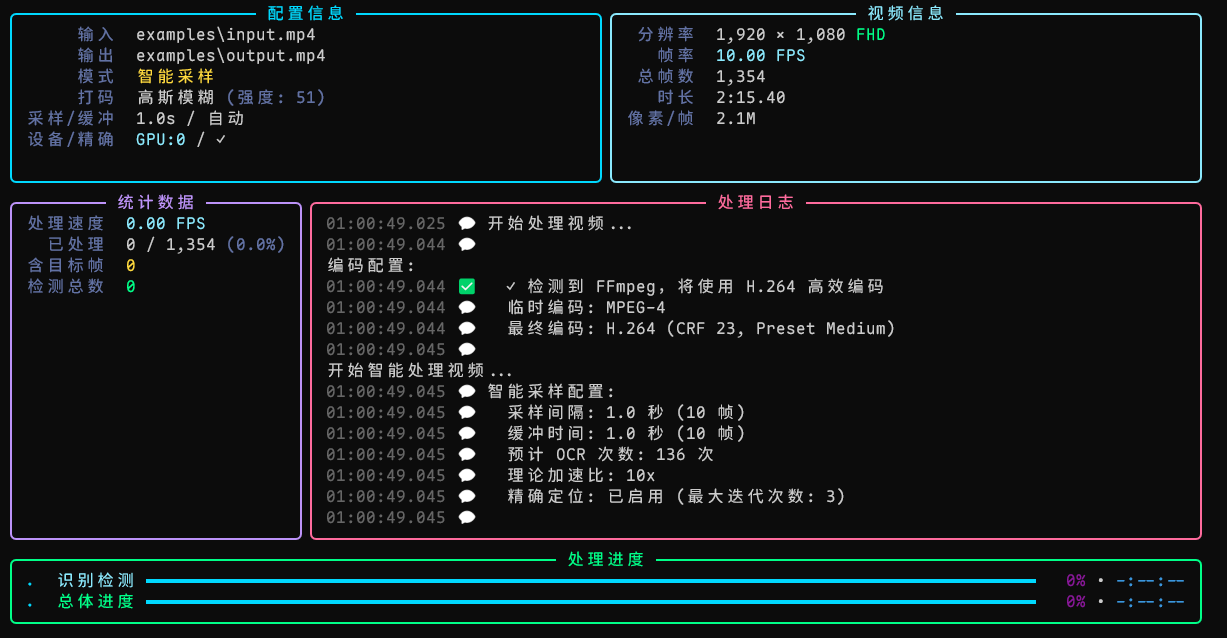
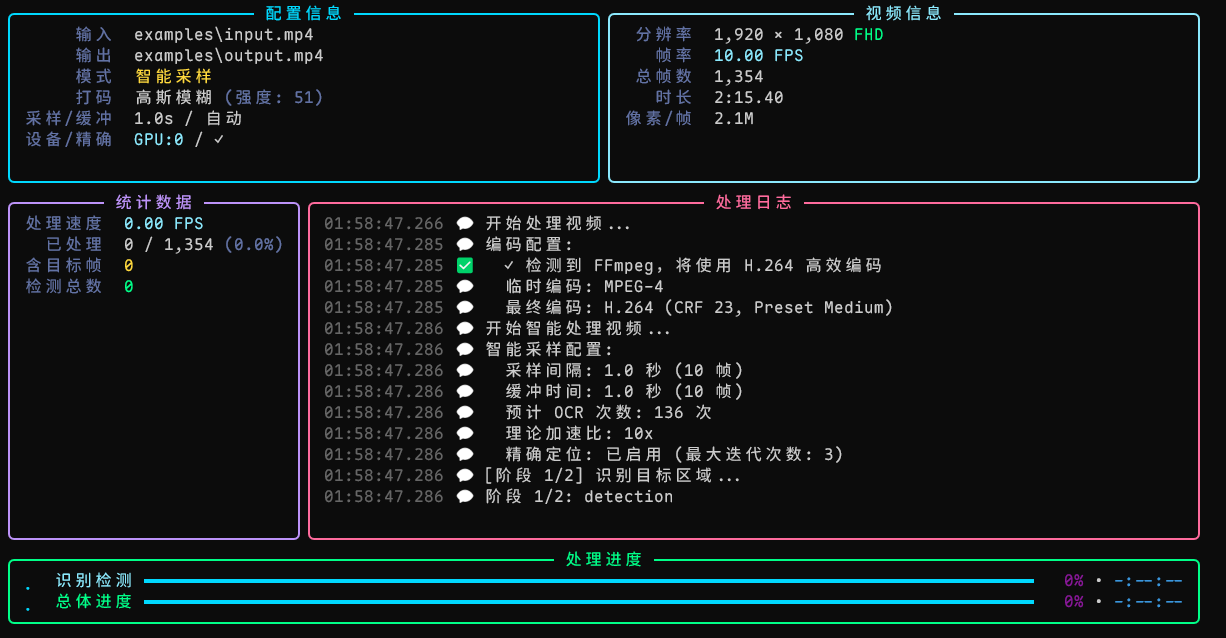
fix: 修复日志样式问题.

diff --git a/src/privision/core/video_processor.py b/src/privision/core/video_processor.py
@@ -100,7 +100,9 @@ class VideoProcessor:
             level: 日志级别 (info, success, warning, error)
         """
         if self.progress_callback:
-            self.progress_callback.on_log(message, level)
+            # 去除开头的换行符，避免在 UI 中显示不必要的空行
+            cleaned_message = message.lstrip('\n')
+            self.progress_callback.on_log(cleaned_message, level)
         else:
             print(message)
 
